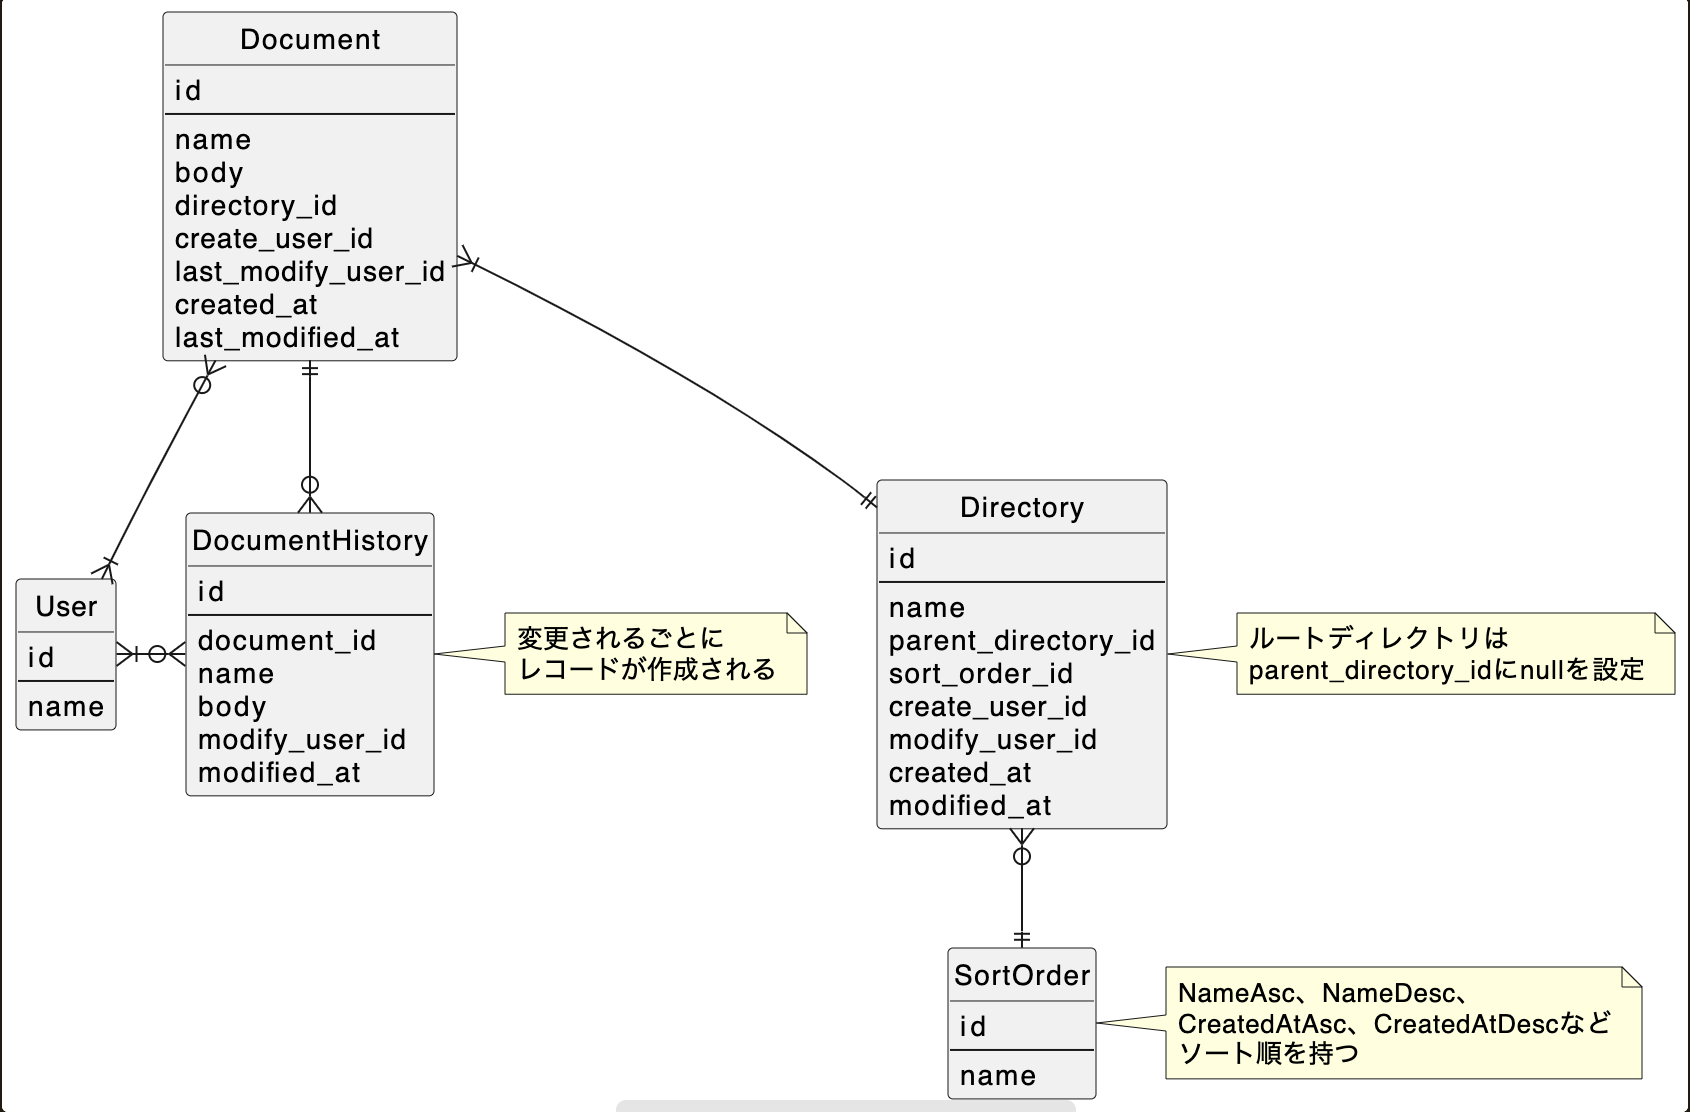
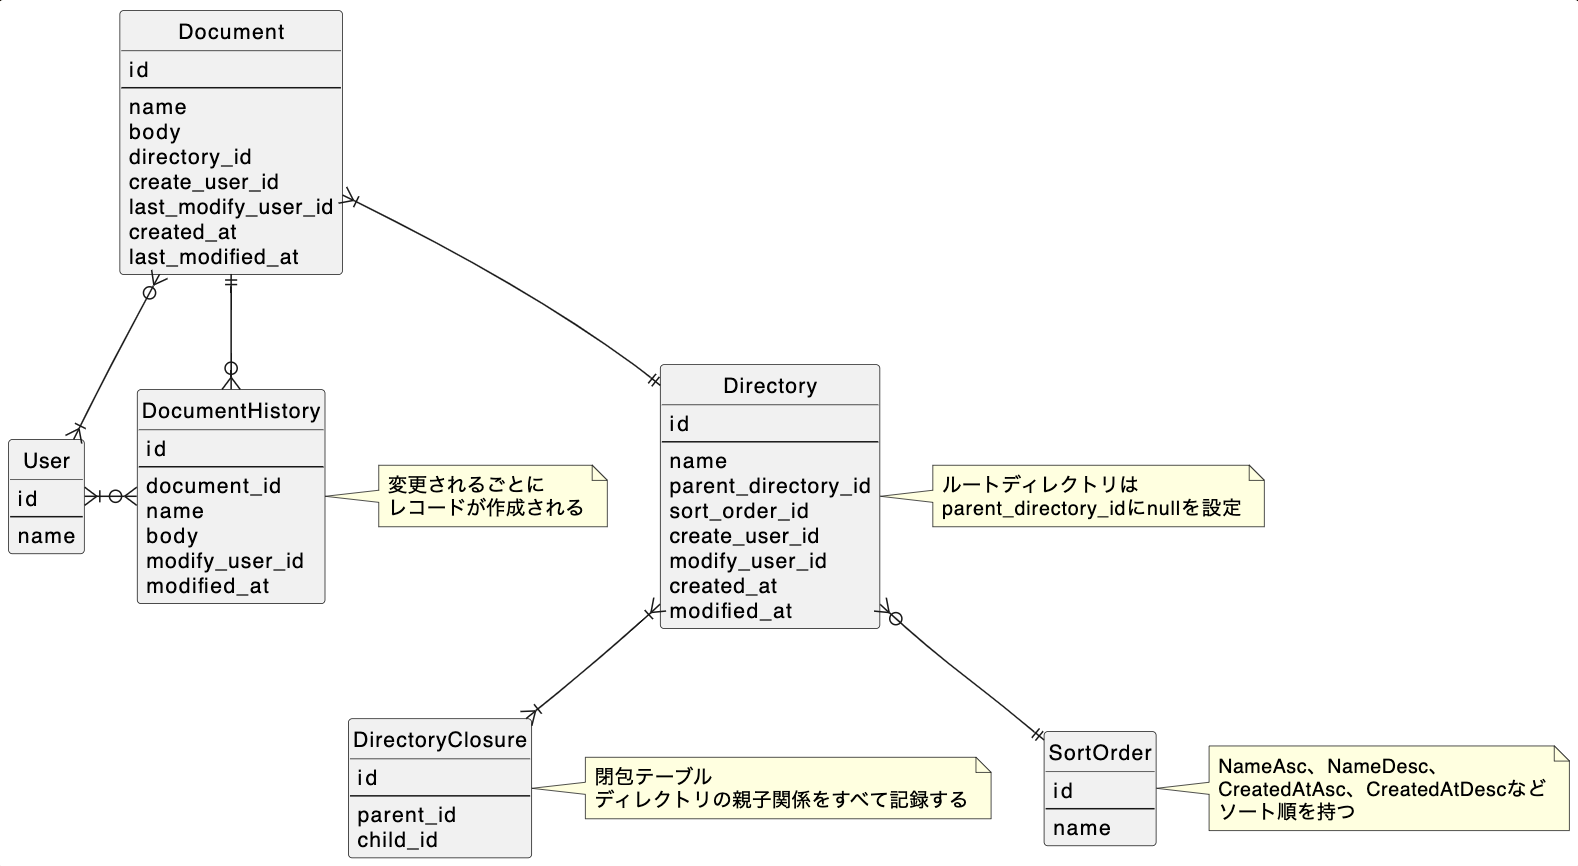
閉包テーブルを追加

diff --git a/db/db-modeling-3/readme.md b/db/db-modeling-3/readme.md
@@ -4,6 +4,36 @@
 - ドキュメントは最新の内容をDocumentで管理、過去の変更はDocumentHistoryで管理する
 - 変更ごとにDocumentHistoryにレコード追加するためデータ量が増える点が懸念点。恐らく変更点のみ差分保存すれば良いと思うがそのメカニズムが分からない
 
+## 8/24更新
+- メンターセッションで閉包テーブルという設計方法を知ったので、これを利用するよう修正
+- 閉包テーブルとはツリー構造(ファイルディレクトリとか)のデータを表現する方法の一つ。親のidを持たせて自身のテーブルを参照する方法より良い点がある。
+- 今回はレコードの削除追加というユースケースが想定されるので、その扱いが楽というメリットがあるため閉包テーブルを利用
+- 以下本当に簡単にメモ
+### ツリー構造を表現する方法１　親のidを持たせる
+例えばDirectoryテーブルでparent_idというカラムを用意し、親のディレクトリのidを格納することで階層を表すことができる。  
+その場合、あるディレクトリの子供のディレクトリを探すSQLは以下の通り。（シンプルにするためにディレクトリ名だけ取得）  
+select 2.name from Directory 1 join Directory 2 on 1.id = 2.parent_id where 1.id = '100';  
+### 問題1 深い階層まで取得しようとすると結合がその分増える
+もし子孫まで取得する場合こうなる  
+select 2.name, 3.name from Directory 1 join Directory 2 on 1.id = 2.parent_id join Directory 3 on 2.id = 3.parent_id where 1.id = '100';  
+このように階層が深くなるごとに結合が増えることが問題。  
+### 問題2 削除が手間
+https://www.ritolab.com/entry/235  
+この記事に書いてあるとおり、ディレクトリの途中だけ削除するような場合、削除時にそのディレクトリの子供のparent_idを更新しないといけない。かつparent_idの制約を付けている場合順番に削除する必要がある。  
+もしそのディレクトリの子孫すべてを削除するのなら問題ない。
+### ツリー構造を表現する方法２　閉包テーブルを使う
+アイデアとしてはDirectoryテーブルには単純にディレクトリ分のレコードをもたせ、親子の関係性は別テーブルで管理する。  
+別テーブルではparent_id child_idというカラムを持ち、Directoryテーブルのツリー構造をすべて記録する。  
+テーブルの内容は記事を参照  
+https://dirtsimple.org/2010/11/simplest-way-to-do-tree-based-queries.html#:~:text=A%20closure%20table%20is%20simply,to%20each%20row's%20parent%20directory  
+もし子孫まで取得する場合こうなる    
+select D.name from Directory D join DirectoryClosure DC on D.id = DC.child_id where DC.parent_id = '100';  
+DirectoryClosureが先ほどの別テーブル、クロージャーテーブルと呼ばれるもの。この２つのテーブルのみ結合すればで済む。  
+これは検索のディレクトリがどれだけ深くなってもこれ以上結合が増えないので、親のidを持たせる方法の結合が多くなる問題は解決できる。  
+レコード削除の問題も、クロージャーテーブルにすべての関係が記録されているので、例えば子を削除したとしても、孫に対するレコード更新は必要だが制約が無いので削除しやすい。
+
+
+
 # 課題2
 - ドキュメントのソート順をDirectoryで保存し、データ取得時はまずその値を参照し、クエリのソート順だけ動的に変更して取得する
 - ソート順はSortOrderがマスタテーブルで、Directoryが外部キーsort_order_idを持つ
